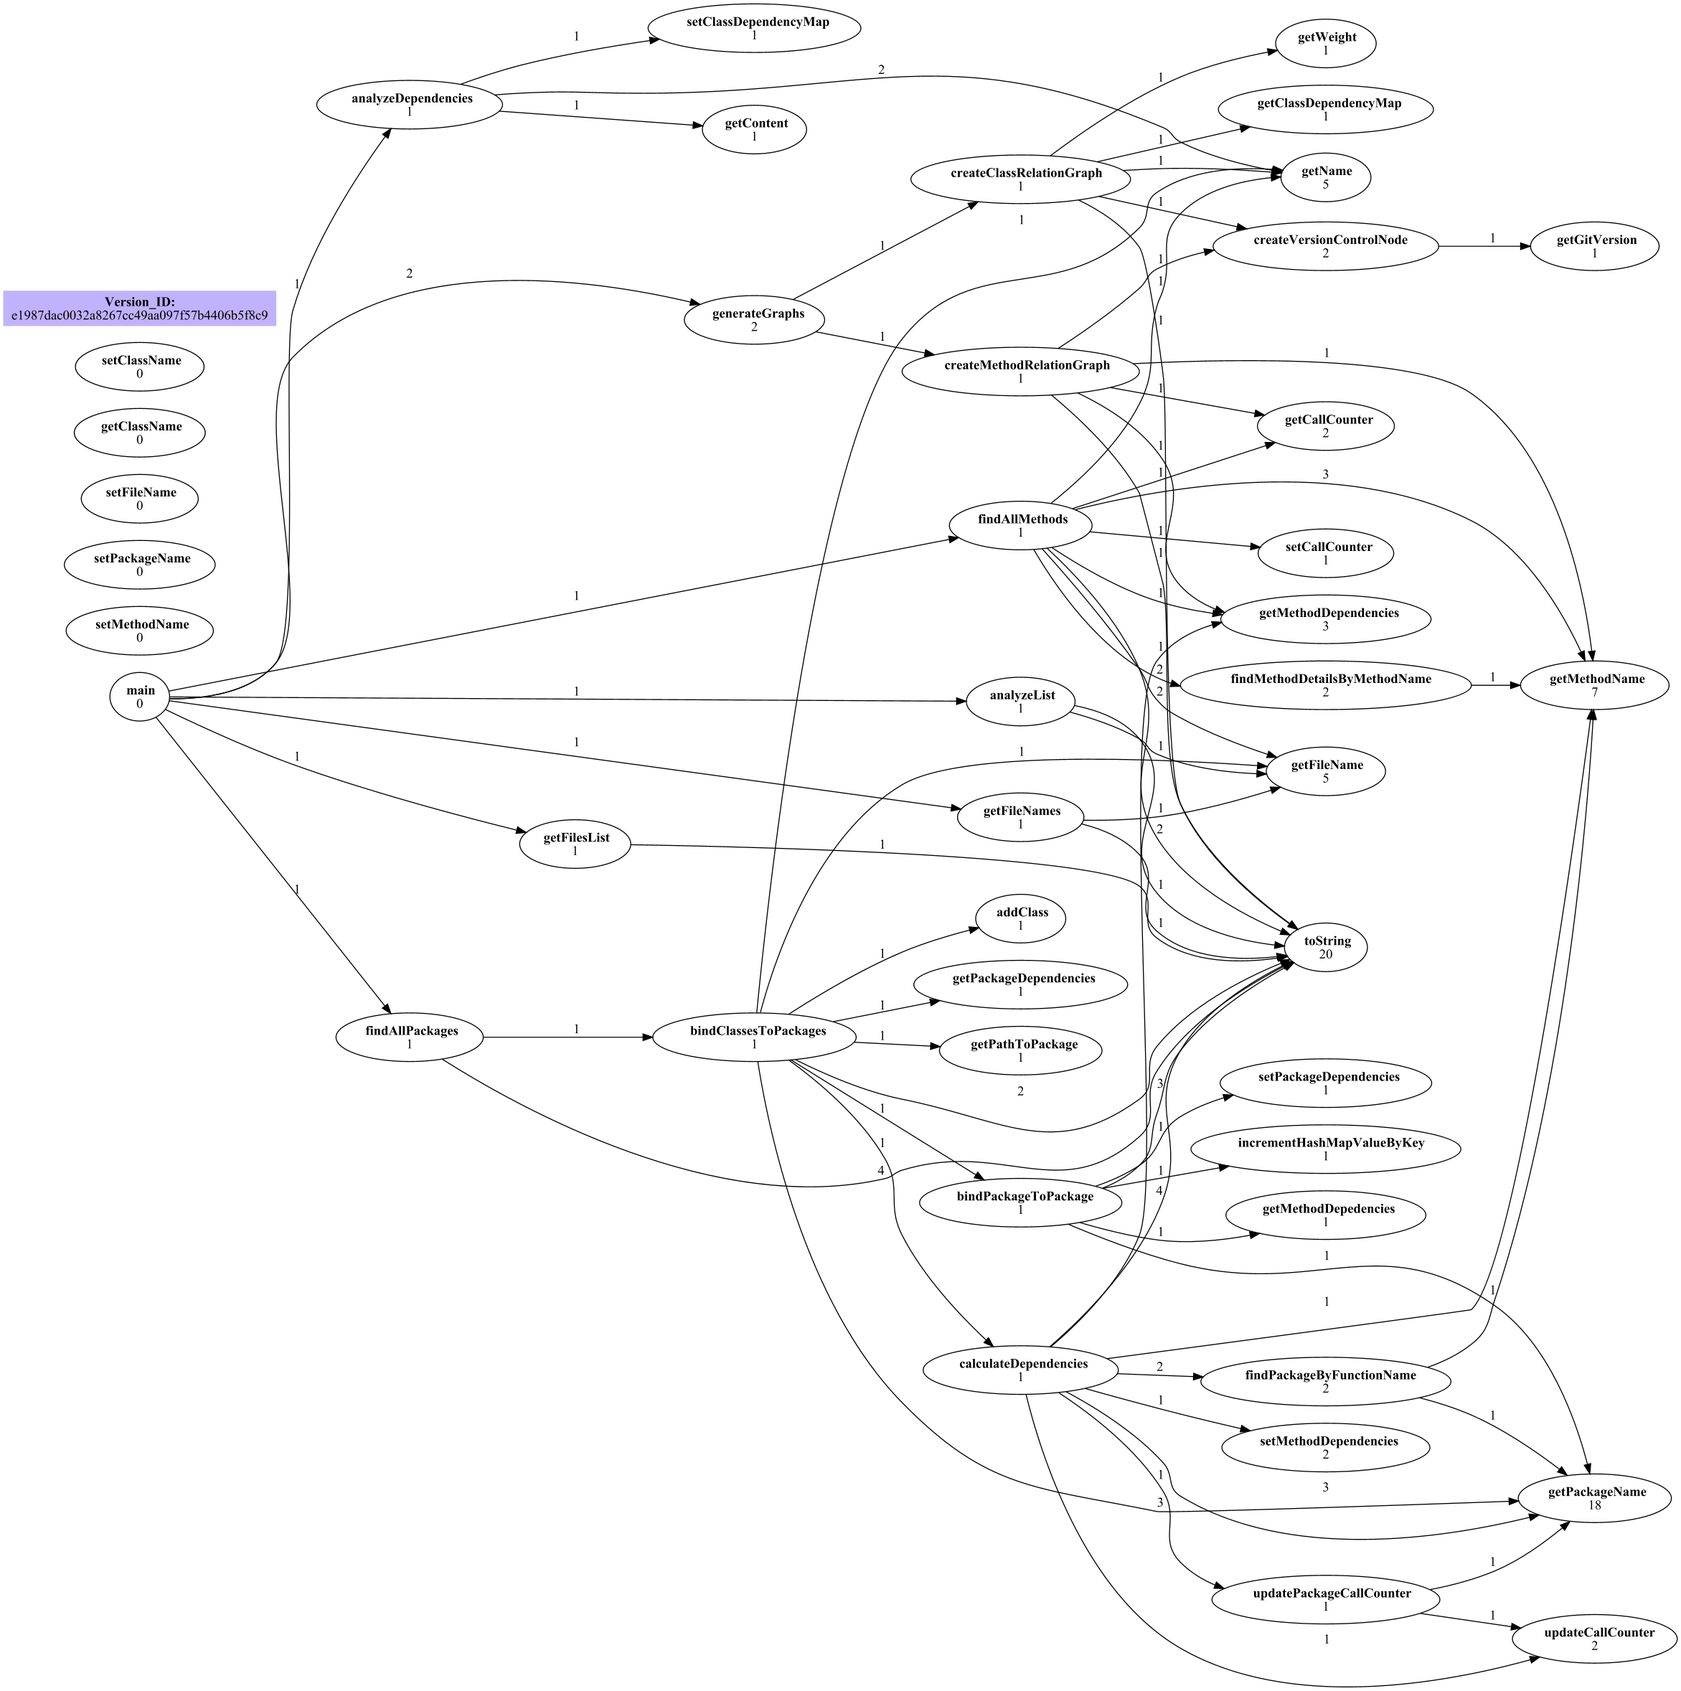
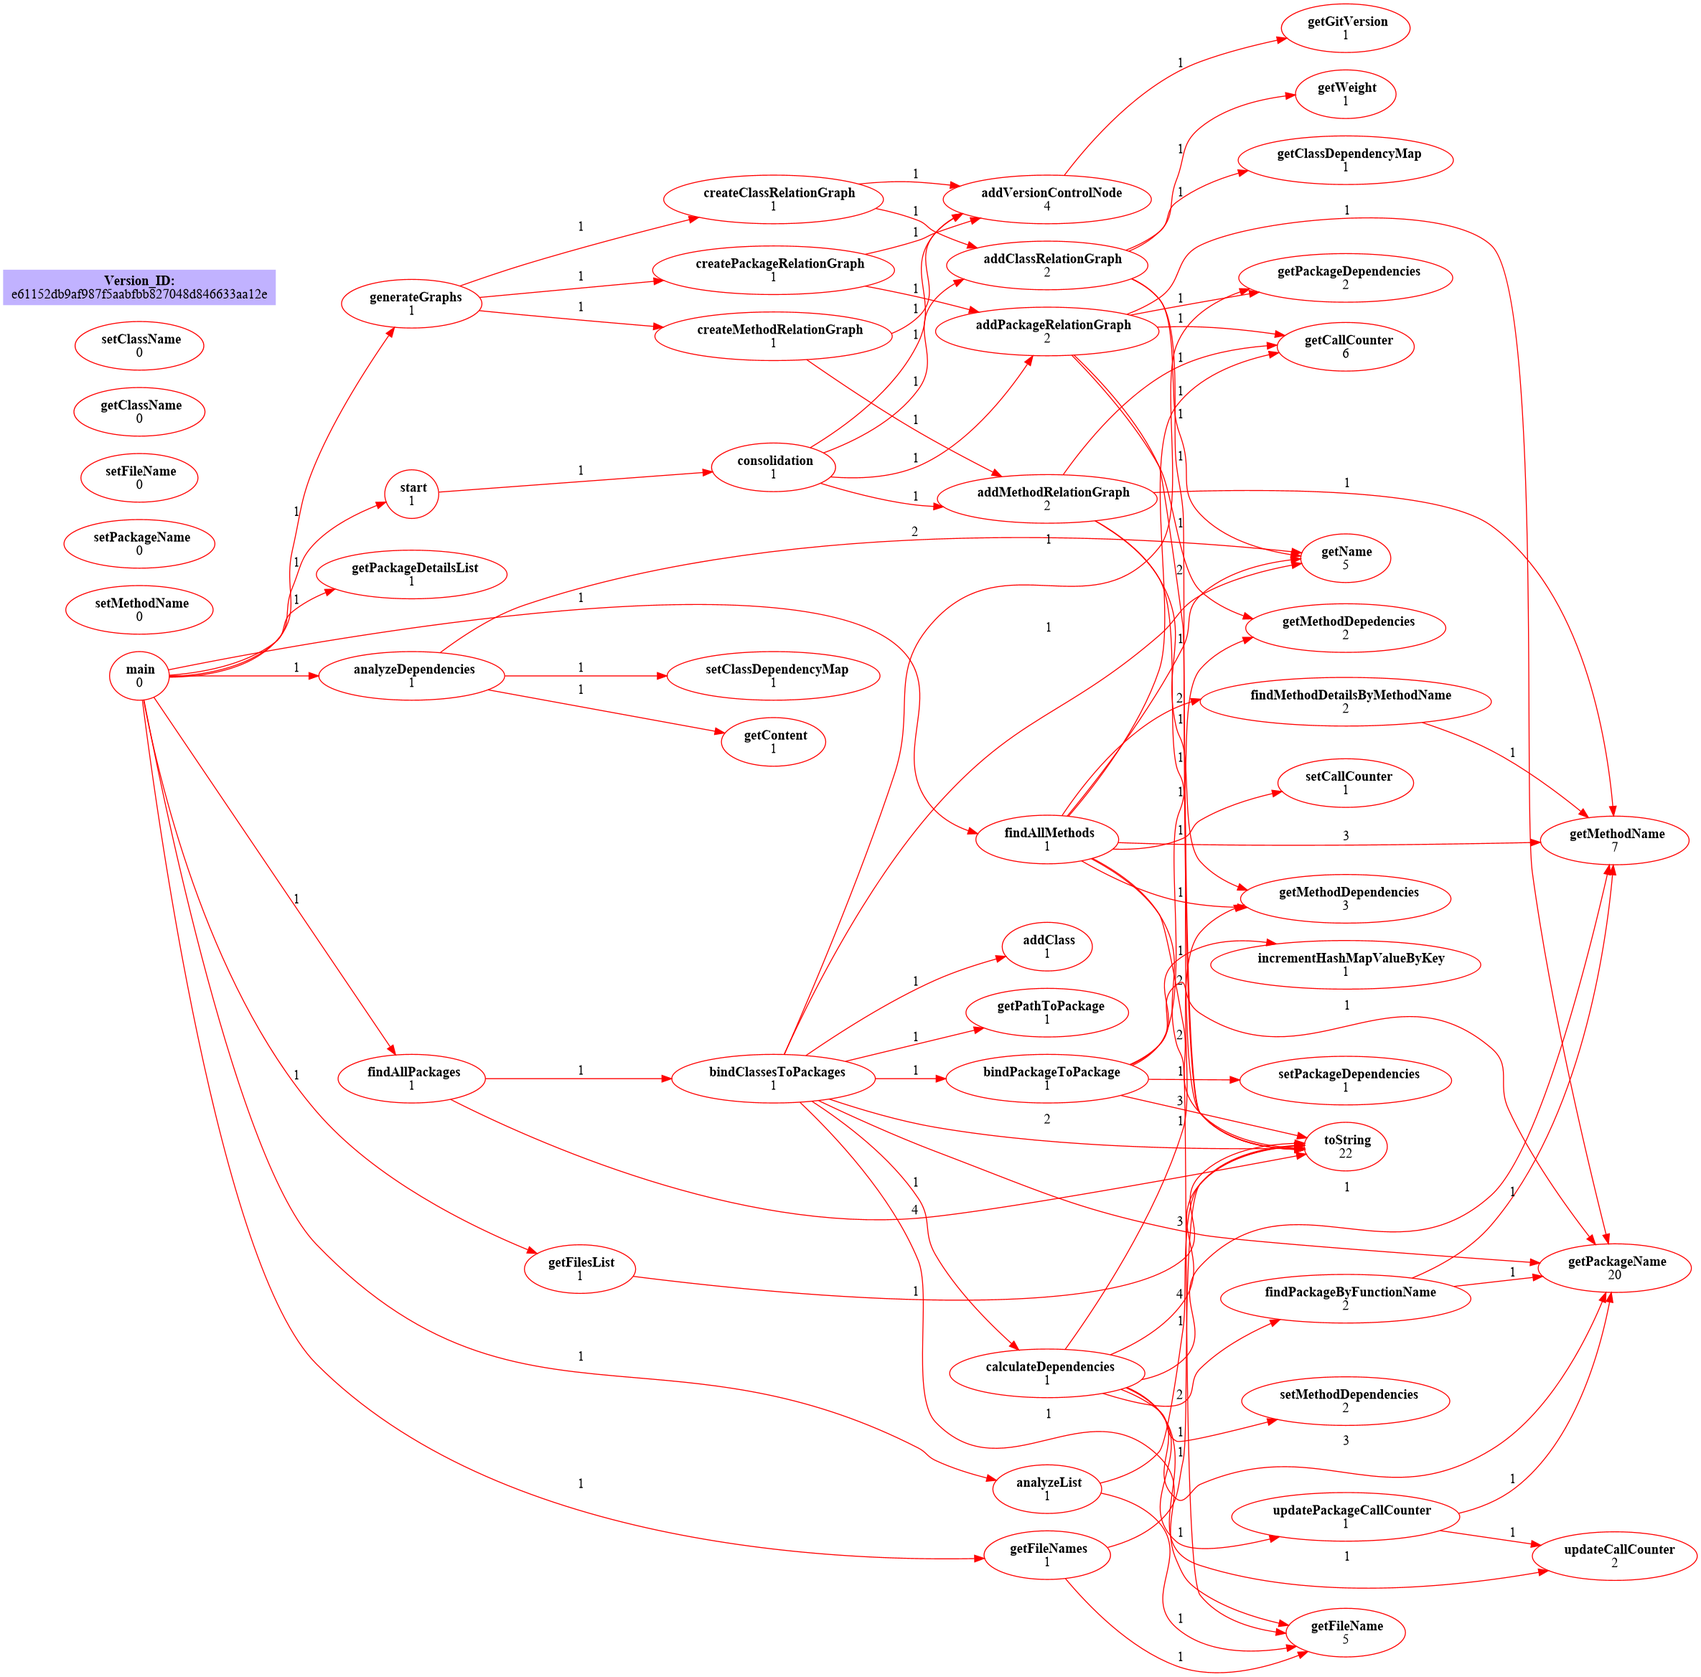
Dodany grafy historyjka 3 Dodano historyjka 5

diff --git a/src/main/java/com/IOgroup/graphs/Graphs.java b/src/main/java/com/IOgroup/graphs/Graphs.java
@@ -2,14 +2,17 @@ package com.IOgroup.graphs;
 import com.IOgroup.model.FileDetails;
 import com.IOgroup.model.MethodDetails;
 import com.IOgroup.gitVersion.GitVer;
+import com.IOgroup.model.PackageDetails;
 import guru.nidi.graphviz.attribute.*;
 import guru.nidi.graphviz.engine.Format;
 import guru.nidi.graphviz.model.Graph;
+import guru.nidi.graphviz.model.Link;
 import guru.nidi.graphviz.model.Node;
 
 import java.io.File;
 import java.io.IOException;
 import java.util.ArrayList;
+import java.util.HashMap;
 import java.util.List;
 import java.util.Map;
 
@@ -22,76 +25,99 @@ import static guru.nidi.graphviz.model.Link.to;
 public class Graphs {  //https://github.com/nidi3/graphviz-java#complex-example
 
     public void createClassRelationGraph(List<FileDetails> filesList) throws IOException {
-
-        List mainNodes = new ArrayList();
-        for(FileDetails file : filesList){ //dla każdego pliku z listy plików
-
-            String nodeName = file.getName();
-            double weight = file.getWeight();
-            Node mainNode = node(nodeName).with(Label.html("<b>" + nodeName + "</b><br/>" + weight + "B")); //stwórz głównego noda
-
-            List toNodes = new ArrayList();
-
-            for(Map.Entry<String, Integer> oneFile : file.getClassDependencyMap().entrySet() ){
-                //Map.Entry oraz .entrySet() traktuje K i V jako jedną klasę dzięki czemu iterowanie jest prostsze
-                //Z każdego pliku file wyciągamy jego dependency mapę i z niej wyciągamy każdą zależność ( jedna dependency mapa ma kilka zależności)
-                String newNodeName = oneFile.getKey() ;//+ ".java"; <-------- NA HUJ TO JA SIE PYTAM XDDDD
-                toNodes.add(to(node(newNodeName)).with(Label.of(oneFile.getValue().toString())));  //do listy dodajemy węzły połączone z naszym źródłem
-            }
-            mainNodes.add(mainNode.link(toNodes));
-        }
-
-        mainNodes.add(createVersionControlNode());  //dodaje maly kwadracik na grafie z numerem wersji kodu
-
-        Graph g = graph("example1")
-                .directed()
-                .graphAttr().with(Rank.dir(LEFT_TO_RIGHT))
-                .with(mainNodes);
-
+        List mainNodes = new ArrayList(); //tutaj tworzy sie cala lista na podstawie ktorej zbudowany zostanie graf
+        addClassRelationGraph(filesList,mainNodes); //do listy dodawane sa wezly i polaczenia
+        addVersionControlNode(mainNodes);  //do listy dodaje maly kwadracik na grafie z numerem wersji kodu
+        Graph g = graph("ClassRelationGraph").directed().graphAttr().with(Rank.dir(LEFT_TO_RIGHT)).with(mainNodes); //tworzenie grafu
         File resultFile = new File("ClassRelationGraph.png");
         resultFile.createNewFile();
-      try {
-         fromGraph(g).render(Format.PNG).toFile(resultFile);
-       } catch (IOException e) {
-            e.printStackTrace();
-       }
-
+        try { fromGraph(g).render(Format.PNG).toFile(resultFile); } catch (IOException e) { e.printStackTrace(); }
     }
 
     public void createMethodRelationGraph(List<MethodDetails> methodList) throws IOException {
-
+        //Analogicznie do funkcji wyzej
         List mainNodes = new ArrayList();
-        for(MethodDetails method : methodList) {
+        addMethodRelationGraph(methodList,mainNodes);
+        addVersionControlNode(mainNodes);
+        Graph g = graph("MethodRelationGraph").directed().graphAttr().with(Rank.dir(LEFT_TO_RIGHT)).with(mainNodes);
+        File resultFile = new File("MethodRelationGraph.png");
+        resultFile.createNewFile();
+        try { fromGraph(g).render(Format.PNG).toFile(resultFile); } catch (IOException e) { e.printStackTrace(); }
+    }
 
-            String nodeName = method.getMethodName();
-            int weight = method.getCallCounter();
-            Node mainNode = node(nodeName).with(Label.html("<b>" + nodeName + "</b><br/>" + weight));
+    public void createPackageRelationGraph(List<PackageDetails> packageList) throws IOException {
+        //Analogicznie do funkcji wyzej
+        List mainNodes = new ArrayList();
+        addPackageRelationGraph(packageList,mainNodes);
+        addVersionControlNode(mainNodes);
+        Graph g = graph("PackageRelationGraph").directed().graphAttr().with(Rank.dir(LEFT_TO_RIGHT)).with(mainNodes);
+        File resultFile = new File("PackageRelationGraph.png");
+        resultFile.createNewFile();
+        try { fromGraph(g).render(Format.PNG).toFile(resultFile); } catch (IOException e) { e.printStackTrace(); }
+    }
 
+    public static List addClassRelationGraph(List<FileDetails> filesList, List mainNodes) throws IOException {
+        for(FileDetails file : filesList){ //dla każdej klasy z listy klas
+            String nodeName = file.getName();
+            double weight = file.getWeight();
+            Node mainNode = node(nodeName).with(Label.html("<b>" + nodeName + "</b><br/>" + weight + "B"), Color.GREEN); //stwórz noda klasy
             List toNodes = new ArrayList();
-            for(Map.Entry<String, Integer> oneFile : method.getMethodDependencies().entrySet() ){
+            for(Map.Entry<String, Integer> oneFile : file.getClassDependencyMap().entrySet() ){ //dla kazdej klasy z ktorymi jest polaczona nasza glowna klasa
+                //Map.Entry oraz .entrySet() traktuje K i V jako jedną klasę dzięki czemu iterowanie jest prostsze
+                //Z każdego pliku file wyciągamy jego dependency mapę i z niej wyciągamy każdą zależność ( jedna dependency mapa ma kilka zależności)
                 String newNodeName = oneFile.getKey() ;
-                toNodes.add(to(node(newNodeName)).with(Label.of(oneFile.getValue().toString())));
+                toNodes.add(to(node(newNodeName)).with(Label.of(oneFile.getValue().toString()),Color.GREEN));  //do listy dodajemy węzły połączone z naszym źródłem
             }
             mainNodes.add(mainNode.link(toNodes));
         }
-
-        mainNodes.add(createVersionControlNode());  //dodaje maly kwadracik na grafie z numerem wersji kodu
-
-        Graph g = graph("example2")
-                .directed()
-                .graphAttr().with(Rank.dir(LEFT_TO_RIGHT))
-                .with(mainNodes);
-
-        File resultFile = new File("MethodRelationGraph.png");
-        resultFile.createNewFile();
-        try {
-            fromGraph(g).render(Format.PNG).toFile(resultFile);
-        } catch (IOException e) {
-            e.printStackTrace();
-        }
+        return mainNodes;
     }
 
-    public Node createVersionControlNode(){
+    public static List addMethodRelationGraph(List<MethodDetails> methodList, List mainNodes) throws IOException {
+        for(MethodDetails method : methodList) {
+            String nodeName = method.getMethodName();
+            int weight = method.getCallCounter();
+            Node mainNode = node(nodeName).with(Label.html("<b>" + nodeName + "</b><br/>" + weight), Color.RED);
+            List toNodes = new ArrayList();
+            for(Map.Entry<String, Integer> oneFile : method.getMethodDependencies().entrySet() ){
+                String newNodeName = oneFile.getKey() ;
+                toNodes.add(to(node(newNodeName)).with(Label.of(oneFile.getValue().toString()),Color.RED));
+            }
+            mainNodes.add(mainNode.link(toNodes));
+        }
+        return mainNodes;
+    }
+
+    public static List addPackageRelationGraph(List<PackageDetails> packageList, List mainNodes) throws IOException {
+        for (PackageDetails onePackage : packageList) { //dla każdego pliku z listy plików
+            String nodeName = onePackage.getPackageName();
+            int weight = onePackage.getCallCounter();
+            Node mainNode = node(nodeName).with(Label.html("<b>" + nodeName + "</b><br/>" + weight)); //stwórz głównego noda
+            List toNodes = new ArrayList();
+            //tworzenie polaczen package-package
+            for (Map.Entry<String, Integer> packag : onePackage.getPackageDependencies().entrySet()) {
+                String newNodeName = packag.getKey();
+                toNodes.add(to(node(newNodeName)).with(Label.of(packag.getValue().toString())));
+            }
+            //tworzenie polaczen klasa-package (klasa pochodzi z package)
+            mainNodes.add(mainNode.link(toNodes));
+            for (Map.Entry<String, HashMap<String, Integer>> method : onePackage.getMethodDepedencies().entrySet()) {
+                String methodName = method.getKey();
+                Node methodNode = node(methodName).with(Label.of(methodName));
+                mainNodes.add(methodNode.link(to(mainNode).with(Label.of("x"))));
+                List toNodes2 = new ArrayList();
+                //wg. struktury ktora dostalem do uzytku: tworzenie polaczen klasa-package (klasa uzywa package)
+                for (Map.Entry<String, Integer> packag : method.getValue().entrySet()) {
+                    String packageName = packag.getKey();
+                    toNodes2.add(to(node(packageName)).with(Label.of(packag.getValue().toString())));
+                }
+                mainNodes.add(methodNode.link(toNodes2));
+            }
+        }
+        return mainNodes;
+    }
+
+    public static List addVersionControlNode(List mainNodes){ //funkcja dodaje Node z numerem wersji do listy
         String version = GitVer.getGitVersion();
         Node vercontrol = node("Version_ID:").with(
                 Shape.RECTANGLE,
@@ -99,9 +125,7 @@ public class Graphs {  //https://github.com/nidi3/graphviz-java#complex-example
                 Color.hsv(.7, .3, 1.0),
                 Label.html("<b>" + "Version_ID: " + "</b><br/>" + version)
         );
-        return vercontrol;
+        mainNodes.add(vercontrol);
+        return mainNodes;
     }
-
-
-
 }

diff --git a/src/main/java/com/IOgroup/graphs/Story5Controller.java b/src/main/java/com/IOgroup/graphs/Story5Controller.java
@@ -1,0 +1,99 @@
+package com.IOgroup.graphs;
+
+import com.IOgroup.model.FileDetails;
+import com.IOgroup.model.MethodDetails;
+import com.IOgroup.model.PackageDetails;
+import guru.nidi.graphviz.attribute.Rank;
+import guru.nidi.graphviz.engine.Format;
+import guru.nidi.graphviz.model.Graph;
+
+import java.io.File;
+import java.io.IOException;
+import java.util.ArrayList;
+import java.util.List;
+import java.util.Scanner;
+
+import static guru.nidi.graphviz.attribute.Rank.RankDir.LEFT_TO_RIGHT;
+import static guru.nidi.graphviz.attribute.Rank.RankDir.TOP_TO_BOTTOM;
+import static guru.nidi.graphviz.engine.Graphviz.fromGraph;
+import static guru.nidi.graphviz.model.Factory.graph;
+
+public class Story5Controller {
+
+    Boolean files;
+    Boolean methods;
+    Boolean packages;
+
+    List<FileDetails> filesList;
+    List<MethodDetails> methodList;
+    List<PackageDetails> packageList;
+
+    public Story5Controller(List<FileDetails> filesList,  List<MethodDetails> methodList, List<PackageDetails> packageList){
+        this.filesList = filesList;
+        this.methodList = methodList;
+        this.packageList = packageList;
+        //tu beda package
+        files = true;
+        methods = true;
+        packages = true;
+    }
+
+    public void start() throws IOException {
+
+        while(true){
+
+            consolidation(files, methods, packages);
+            System.out.println("Zaladowano graf, odswiez plik aby zobaczyc zmiane");
+            System.out.println("Wpisujac odpowiednia cyfre mozesz wlaczac/wylaczac warstwy:");
+            System.out.println("1. Warstwa relacji plikow");
+            System.out.println("2. Warstwa relacji metod");
+            System.out.println("3. Warstwa relacji pakietow");
+            System.out.println("4. Wyjscie ze story 5");
+            Scanner scanner = new Scanner(System.in);
+            String answer = scanner.nextLine();
+
+
+
+
+            if(answer.equals("4")) break;
+            switch(answer){
+                case "1":
+                    files = !files;
+                    break;
+                case "2":
+                    methods = !methods;
+                    break;
+                case "3":
+                    packages = !packages;
+                    break;
+            }
+            System.out.println("Ladowanie grafu");
+        }
+    }
+
+    private void consolidation(Boolean files, Boolean methods, Boolean packages) throws IOException {
+
+        List nodes = new ArrayList(); //tworzymy liste
+        if(files == true) nodes = Graphs.addClassRelationGraph(filesList, nodes); //do listy dodajemy lub nie odpowiednie grafy
+        if(methods == true) nodes = Graphs.addMethodRelationGraph(methodList,nodes);
+        if(packages == true) nodes = Graphs.addPackageRelationGraph(packageList,nodes);
+
+        Graphs.addVersionControlNode(nodes); //do listy dodajemy prostokąd z numerem wersji kodu
+
+        Graph g = graph("consolidation") //tworzenie grafu
+                .directed()
+                .graphAttr().with(Rank.dir(LEFT_TO_RIGHT))
+                .with(nodes);
+
+        File resultFile = new File("Story5Graph.png");
+        resultFile.createNewFile();
+        try {
+            fromGraph(g).render(Format.PNG).toFile(resultFile);
+        } catch (IOException e) {
+            e.printStackTrace();
+        }
+
+    }
+
+
+}

diff --git a/src/main/java/com/IOgroup/Main.java b/src/main/java/com/IOgroup/Main.java
@@ -4,6 +4,7 @@ import com.IOgroup.fileAnalysis.FileAnalyzer;
 import com.IOgroup.fileAnalysis.LogicAnalyzer;
 import com.IOgroup.fileAnalysis.PackageAnalyzer;
 import com.IOgroup.graphs.Graphs;
+import com.IOgroup.graphs.Story5Controller;
 import com.IOgroup.model.FileDetails;
 import com.IOgroup.model.MethodDetails;
 import com.IOgroup.model.PackageDetails;
@@ -12,19 +13,20 @@ import java.io.IOException;
 import java.nio.file.Path;
 import java.util.ArrayList;
 import java.util.List;
+import java.util.Scanner;
 
 public class Main {
     public static List<FileDetails> fileDetailsList;
     public static List<MethodDetails> methodDetailsList;
 
     private static void generateGraphs(List<FileDetails> filesList,
-                                       List<MethodDetails> methodList) throws IOException {
-        //Tutaj będą wywołania funkcji rysowania grafów, na razie jest historyjka 1 więc tylko jeden graf
-        // juz kurwa nie
+                                       List<MethodDetails> methodList,
+                                       List<PackageDetails> packageDetails) throws IOException {
 
         Graphs graph = new Graphs();
         graph.createClassRelationGraph(filesList);
         graph.createMethodRelationGraph(methodList);
+        graph.createPackageRelationGraph(packageDetails);
     }
 
     public static void main(String[] args) throws IOException{
@@ -61,16 +63,19 @@ public class Main {
 
         //List<MethodDetails> methodDetailsList = new ArrayList<>();
         //methodDetailsList = LogicAnalyzer.getMethodList(fileDetailsList);
-        generateGraphs(fileDetailsList, methodDetails);
+
         PackageAnalyzer.findAllPackages();
+        List<PackageDetails>  packageDetails = PackageAnalyzer.getPackageDetailsList();
 
+        generateGraphs(fileDetailsList, methodDetails, packageDetails);
 
-
-
-
-
-
-
-        generateGraphs(fileDetailsList, methodDetails);
+        System.out.println("Czy chcesz wyświetlić story 5? T/N");
+        Scanner scanner = new Scanner(System.in);
+        String answer = scanner.nextLine();
+        if(answer.equals("T"))
+        {
+            Story5Controller story5 = new Story5Controller(fileDetailsList, methodDetails, packageDetails);
+            story5.start();
+        }
     }
 }

diff --git a/src/main/java/com/IOgroup/fileAnalysis/PackageAnalyzer.java b/src/main/java/com/IOgroup/fileAnalysis/PackageAnalyzer.java
@@ -16,8 +16,13 @@ import static com.IOgroup.Main.fileDetailsList;
 import static com.IOgroup.Main.methodDetailsList;
 
 public class PackageAnalyzer {
+
     private static List<PackageDetails> packageDetailsList = new ArrayList<>();
     private static File file;
+
+    public static List<PackageDetails> getPackageDetailsList() {
+        return packageDetailsList;
+    }
 
     public static void findAllPackages() throws IOException {
 

diff --git a/src/main/java/com/IOgroup/model/PackageDetails.java b/src/main/java/com/IOgroup/model/PackageDetails.java
@@ -11,6 +11,11 @@ public class PackageDetails {
     }
 
     private String packageName;
+
+    public int getCallCounter() {
+        return callCounter;
+    }
+
     private int callCounter=0;
     private HashMap<String, Integer> packageDependencies=new HashMap<>();
     private HashMap<String, HashMap<String,Integer>> methodDependencies= new HashMap<>();

diff --git a/src/main/java/com/IOgroup/fileAnalysis/LogicAnalyzer.java b/src/main/java/com/IOgroup/fileAnalysis/LogicAnalyzer.java
@@ -22,7 +22,7 @@ import com.github.javaparser.ast.body.TypeDeclaration;
 import com.github.javaparser.ast.expr.MethodCallExpr;
 import com.github.javaparser.ast.visitor.VoidVisitorAdapter;
 import com.github.javaparser.utils.SourceRoot;
-import sun.tools.jar.CommandLine;
+
 
 public class LogicAnalyzer {
 
